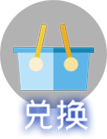
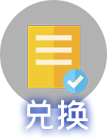
修复了，课程结束界面css 增加了兑换页面

diff --git a/cheerz/css/style.css b/cheerz/css/style.css
@@ -71,7 +71,7 @@ input:-ms-input-placeholder {color: #666;}
 .index-bg{ position:fixed; left:0; top:0; width:100%; height:100%;}
 .index-bg img{ width:100%; height:auto;}
 
-.wt-bg{ position:fixed;top: 0;left: 0; width: 100%;height:auto; background-size: 100% auto;background-color: #2e0f72;}
+.wt-bg{ position:fixed;top: 50%;left: 0; width: 100%;height:auto; background-size: 100% auto;background-color: #2e0f72; transform:translateY(-50%) ;}
 .wt-bg img{ width:100%; height:auto;}
 
 .wt-return{ position:fixed; left:.3rem; top:.25rem; width:1.1rem; height:1.1rem; z-index:9999; background:url(../images/fh.png) no-repeat; background-size:100% 100%;}
@@ -116,12 +116,12 @@ input:-ms-input-placeholder {color: #666;}
 .index-title .jinbi img{ width:.74rem; height:.77rem; z-index:99; position:absolute; top:50%; transform: translateY(-50%); left:0; }
 .index-title .jinbi span{background:url(../images/tm.png) repeat; padding-left:.7rem; padding-right:.5rem; height:.55rem;border-radius:.25rem; display:block; line-height:.55rem; color:#ffffff; font-size:.28rem; text-align:center;position:absolute; top:50%; transform: translateY(-50%); z-index:9;}
 .index-title .icon{ width:1.07rem; height:1.39rem; display:block; float:right; margin-left:.6rem;}
-.index-title .icon01{ background:url(../images/gm.png) no-repeat; background-size:100% 100%;}
-.index-title .icon02{ background:url(../images/dh.png) no-repeat; background-size:100% 100%;}
+.index-title .icon01{ background:url(../images/dh.png) no-repeat; background-size:100% 100%;}
+.index-title .icon02{ background:url(../images/sc.png) no-repeat; background-size:100% 100%;}
 .index-title .icon03{ background:url(../images/sz.png) no-repeat; background-size:100% 100%;}
 
-.index-title .icon01:hover{ background:url(../images/gm-hover.png) no-repeat; background-size:100% 100%;}
-.index-title .icon02:hover{ background:url(../images/dh-hover.png) no-repeat; background-size:100% 100%;}
+.index-title .icon01:hover{ background:url(../images/dh-hover.png) no-repeat; background-size:100% 100%;}
+.index-title .icon02:hover{ background:url(../images/sc-hover.png) no-repeat; background-size:100% 100%;}
 .index-title .icon03:hover{ background:url(../images/sz-hover.png) no-repeat; background-size:100% 100%;}
 .index-boxa{ padding-top:4.5rem 0rem 4.5rem 9rem;}
 .quanbu-kc{ background:url(../images/qbkc.png) no-repeat; width:2.45rem; height:3.71rem; background-size:100% 100%; float:left; margin-left:.9rem; margin-top:.7rem;}
@@ -208,6 +208,15 @@ input:-ms-input-placeholder {color: #666;}
 .chebei-wan li{ width:33.33%; float:left; text-align:center;}
 .chebei-wan li .yes{ background:url(../images/dui.png) no-repeat; width:.95rem; height:.80rem; background-size:100% 100%; margin:0 auto; display:block; margin-top:.25rem;}
 .chebei-wan li .no{ background:url(../images/cuo.png) no-repeat; width:.80rem; height:.80rem; background-size:100% 100%; margin:0 auto; display:block; margin-top:.25rem;}
+
+.dh-box { background:url(../images/dh-kuang.png) no-repeat; width:17.17rem; height:8.15rem; margin:0 auto; background-size:100% 100%; position:absolute;z-index:999; top:50%;transform: translateY(-50%); left:50%; margin-left:-8.15rem; padding:1.5rem 1.15rem 2rem 5.2rem;}
+
+.dh-list { padding-top:.2rem;}
+.dh-list .item{ position:relative; width:7.1rem; margin:0 auto; margin-top:.4rem;}
+.dh-list .item .text{ width:100%; height:.75rem; line-height:.75rem; padding:0px .32rem; font-size:.28rem;text-align: center;text-transform:uppercase;}
+.dh-list .submit{ width:3.55rem; height:.69rem; display:block; margin:0 auto; background:url(../images/login-btn.png) no-repeat; border:0; font-size:.34rem;padding-bottom: 0.04rem;  margin-top:.6rem; background-size:100% 100%; line-height:1.5;}
+.dh-list .submit:hover{ background:url(../images/login-btn-hover.png) no-repeat; height:.69rem; background-size:100% 100%;}
+
 
 .goum-box{ background:url(../images/gou-kuang.png) no-repeat; width:17.18rem; height:8.94rem; margin:0 auto; background-size:100% 100%; position:absolute;z-index:999; top:50%;transform: translateY(-50%); left:50%; margin-left:-8.95rem; padding:1.5rem 1.15rem 2rem 5.2rem;}
 .goum-box .img-box{ width:100%; height:1.6rem;}
@@ -406,10 +415,7 @@ input:-ms-input-placeholder {color: #666;}
 .zhibo-list li .img-box{ background:#d5d5d5;width:3.4rem; height:2.55rem; position:absolute;left: 0.255rem; top: 0.57rem; overflow:hidden;}
 .zhibo-list li .img-box img{ width:100%;}
 
-.end-box{ position:fixed; z-index:3; left:50%; width:6.2rem; top:50%;transform: translateY(-50%); margin-left:-3.1rem;}
-.end-box .praise{ width:4.92rem; height:3.77rem; margin:0 auto;}
-.end-box .praise img{ width:4.92rem; height:3.77rem;}
-
+.end-box{ position:fixed; z-index:3; width:6.2rem;left:50%; top:55%;transform: translate(-50%,-50%);}
 .end-box .praise{ width:4.92rem; height:3.40rem; margin:0 auto;}
 .end-box .praise img{ width:4.92rem; height:3.40rem;}
 .end-box .txt-box{ background:url(../images/score.png) no-repeat; width:3.65rem; height:1.47rem; margin:0 auto; position:relative; background-size:100% 100%; margin-top:.4rem; padding-top:.3rem;}
@@ -425,7 +431,7 @@ input:-ms-input-placeholder {color: #666;}
 .end-btn a.xy{ background:url(../images/h-btn.png) no-repeat; width:2.36rem; height:.7rem; background-size:100% 100%;font-size:0.38rem;font-family:zihun59hao;color:rgba(255,255,255,1); text-align:center; line-height:.7rem; float:right;}
 .end-btn a.xy:hover{ background:url(../images/h-btn-hover.png) no-repeat; background-size:100% 100%; color:#fff;}
 .kc-end-img{ text-align:center;}
-.kc-end-img .end-tit{ width:4.96rem; height:1.33rem; margin:0 auto;}
+.kc-end-img .end-tit{ width:5.58rem; height:1.5rem; margin:0 auto;}
 .kc-end-img .end-tit img{ width:100%;}
 .kc-end-img .end-nema { text-align:center;  line-height:.4rem; display:inline-block;}
 .kc-end-img .end-nema span{color:#ffffff; font-size:.33rem; font-weight:bold; padding:0px .3rem;}

diff --git a/cheerz/css/style-ipad.css b/cheerz/css/style-ipad.css
@@ -62,8 +62,9 @@ input:-ms-input-placeholder {color: #666;}
 .wt-box{position:relative; width:100%;height:100%;} 
 .hd-box{position:relative; width:100%;height:100%;} 
 
-.wt-bg{ position:fixed; left:0; top:0; width:100%; height:100%; background-size: 100% auto;}
+.wt-bg{ position:fixed;top: 50%;left: 0; width: 100%;height:auto; background-size: 100% auto;background-color: #2e0f72; transform:translateY(-50%) ;}
 .wt-bg img{ width:100%; height:auto;}
+
 .index-bg{ position:fixed; left:0; top:0; width:100%; height:100%;}
 .index-bg img{ width:100%; height:auto;}
 .wt-return{ position:fixed; left:.3rem; top:.4rem; width:0.85rem; height:0.85rem; z-index:99999; background:url(../images/fh.png) no-repeat; background-size:100% 100%;}
@@ -103,12 +104,12 @@ input:-ms-input-placeholder {color: #666;}
 .index-title .jinbi img{ width:.74rem; height:.77rem; z-index:99; position:absolute; top:50%; transform: translateY(-50%); left:0; }
 .index-title .jinbi span{background:url(../images/tm.png) repeat; padding-left:.7rem; padding-right:.5rem; height:.55rem;border-radius:.25rem; display:block; line-height:.55rem; color:#ffffff; font-size:.28rem; text-align:center;position:absolute; top:50%; transform: translateY(-50%); z-index:9;}
 .index-title .icon{ width:1.07rem; height:1.39rem; display:block; float:right; margin-left:.6rem;}
-.index-title .icon01{ background:url(../images/gm.png) no-repeat; background-size:100% 100%;}
-.index-title .icon02{ background:url(../images/dh.png) no-repeat; background-size:100% 100%;}
+.index-title .icon01{ background:url(../images/dh.png) no-repeat; background-size:100% 100%;}
+.index-title .icon02{ background:url(../images/sc.png) no-repeat; background-size:100% 100%;}
 .index-title .icon03{ background:url(../images/sz.png) no-repeat; background-size:100% 100%;}
 
-.index-title .icon01:hover{ background:url(../images/gm-hover.png) no-repeat; background-size:100% 100%;}
-.index-title .icon02:hover{ background:url(../images/dh-hover.png) no-repeat; background-size:100% 100%;}
+.index-title .icon01:hover{ background:url(../images/dh-hover.png) no-repeat; background-size:100% 100%;}
+.index-title .icon02:hover{ background:url(../images/sc-hover.png) no-repeat; background-size:100% 100%;}
 .index-title .icon03:hover{ background:url(../images/sz-hover.png) no-repeat; background-size:100% 100%;}
 .index-boxa{ padding-top:4.5rem 0rem 4.5rem 9rem;}
 .quanbu-kc{ background:url(../images/qbkc.png) no-repeat; width:2.45rem; height:3.71rem; background-size:100% 100%; float:left; position: absolute; left:.57rem; top:.7rem;}
@@ -195,6 +196,15 @@ input:-ms-input-placeholder {color: #666;}
 .chebei-wan li{ width:33.33%; float:left; text-align:center;}
 .chebei-wan li .yes{ background:url(../images/dui.png) no-repeat; width:.95rem; height:.80rem; background-size:100% 100%; margin:0 auto; display:block; margin-top:.25rem;}
 .chebei-wan li .no{ background:url(../images/cuo.png) no-repeat; width:.80rem; height:.80rem; background-size:100% 100%; margin:0 auto; display:block; margin-top:.25rem;}
+
+.dh-box { background:url(../images/dh-kuang.png) no-repeat; width:17.17rem; height:8.15rem; margin:0 auto; background-size:100% 100%; position:absolute;z-index:999; top:50%;transform: translateY(-50%); left:50%; margin-left:-8.15rem; padding:1.5rem 1.15rem 2rem 5.2rem;}
+
+.dh-list { padding-top:.2rem;}
+.dh-list .item{ position:relative; width:7.1rem; margin:0 auto; margin-top:.4rem;}
+.dh-list .item .text{ width:100%; height:.75rem; line-height:.75rem; padding:0px .32rem; font-size:.28rem;text-align: center;text-transform:uppercase;}
+.dh-list .submit{ width:3.55rem; height:.69rem; display:block; margin:0 auto; background:url(../images/login-btn.png) no-repeat; border:0; font-size:.34rem;padding-bottom: 0.04rem;  margin-top:.6rem; background-size:100% 100%; line-height:1.5;}
+.dh-list .submit:hover{ background:url(../images/login-btn-hover.png) no-repeat; height:.69rem; background-size:100% 100%;}
+
 
 .goum-box{ background:url(../images/gou-kuang.png) no-repeat; width:17.18rem; height:8.94rem; margin:0 auto; background-size:100% 100%; position:absolute;z-index:999; top:50%;transform: translateY(-50%); left:50%; margin-left:-8.95rem; padding:1.5rem 1.15rem 2rem 5.2rem;}
 .goum-box .img-box{ width:100%; height:1.6rem;}
@@ -401,10 +411,7 @@ input:-ms-input-placeholder {color: #666;}
 .zhibo-list li .img-box{ background:#d5d5d5;width:2.95rem; height:2.2rem; position:absolute;left: 0.255rem; top: 0.57rem; overflow:hidden;}
 .zhibo-list li .img-box img{ width:100%;}
 
-.end-box{ position:fixed; z-index:3; left:50%; width:6.2rem; top:50%;transform: translateY(-50%); margin-left:-3.1rem;}
-.end-box .praise{ width:4.92rem; height:3.77rem; margin:0 auto;}
-.end-box .praise img{ width:4.92rem; height:3.77rem;}
-
+.end-box{ position:fixed; z-index:3; width:6.2rem;left:50%; top:55%;transform: translate(-50%,-50%);}
 .end-box .praise{ width:4.92rem; height:3.40rem; margin:0 auto;}
 .end-box .praise img{ width:4.92rem; height:3.40rem;}
 .end-box .txt-box{ background:url(../images/score.png) no-repeat; width:3.65rem; height:1.47rem; margin:0 auto; position:relative; background-size:100% 100%; margin-top:.4rem; padding-top:.3rem;}

diff --git a/cheerz/duihuan.html b/cheerz/duihuan.html
@@ -1,0 +1,73 @@
+<!DOCTYPE html>
+<html>
+	<head>
+		<!-- 兑换课程 -->
+		<meta charset="utf-8">
+		<meta name="viewport" content="width=device-width,initial-scale=1,minimum-scale=1,maximum-scale=1,user-scalable=no" />
+		<title>哈彼英语</title>
+		<link href="css/mui.min.css" rel="stylesheet" />
+		<link href="css/style.css" rel="stylesheet" />
+	</head>
+	<body>
+		<div class="wt-bg"><img src="images/index-bg.png"></div>
+		<a href="javascript:jump('index','index.html')" class="wt-return"></a>
+
+		<div class="iphone_center">
+			<div class="wt-box">
+				<div class="dh-box">
+					<form>
+						<div class="dh-list">
+							<div class="item">
+								<input name="" type="text" class="text" id="duihuanma" placeholder="请输入课程兑换码">
+							</div>
+							<button type="button" class="submit" id="duihuan">兑&nbsp;&nbsp;换</button>
+						</div>
+					</form>
+				</div>
+			</div>
+		</div>
+
+
+
+
+		<script src="js/mui.min.js"></script>
+		<script src="js/jquery-1.8.3.min.js"></script>
+		<script src="js/rem.js"></script>
+		<script src="js/ui-choose.js"></script>
+		<script src="js/common.js"></script>
+		<script>
+			$('#duihuan').on('click', function() {
+				var duihuanma = $("#duihuanma").val();
+				if (duihuanma.length == 0) {
+					mui.alert('请输入兑换码');
+					return;
+				}
+				// mui.ajax({
+				// 	url: '',
+				// 	data: {
+				// 		duihuanma: duihuanma
+				// 	},
+				// 	async: true,
+				// 	dataType: 'json',
+				// 	type: 'post',
+				// 	timeout: 10000,
+				// 	success: function(data) {
+				// 		// 请求成功
+				// 		if (data.rst == 0) {
+				// 			mui.alert(data.msg);
+				// 			return;
+				// 		}
+				// 		if (data.rst == 1) {
+				// 			// 兑换成功
+				// 		}
+				// 	},
+				// 	error: function(xhr, type, errorThrown) {
+				// 		// 请求失败  
+				// 		mui.alert("网络错误，请稍后再试");
+				// 	}
+				// });
+			});
+		</script>
+
+	</body>
+</html>

diff --git a/cheerz/kc-end.html b/cheerz/kc-end.html
@@ -7,13 +7,13 @@
 		<link href="css/mui.min.css" rel="stylesheet" />
 		<link href="css/style.css" rel="stylesheet" />
 	</head>
-	<body style="background:#333333;">
-		<div class="wt-bg"><img src="images/kc-end.png"></div>
+	<body style="background:#333;">
+		<div class="wt-bg" style="background:#333;"><img src="images/kc-end.png"></div>
 		<!-----
 		<a href=""class="yx-return"></a>
 		<!----->
 
-		<div class="iphone_center">
+		<div class="iphone_center" style="background:#333;">
 			<div class="wt-box">
 				<div class="end-box">
 					<div class="kc-end-img">
@@ -60,10 +60,12 @@
 		var token;
 
 		function leavepage() {
-			comefrom = document.referrer;
-			if (comefrom.indexOf("zhibo-kt.html") != -1) returnlink = "index.html";
-			else returnlink = "kcxq.html";
-			jump('back', returnlink);
+			iszhibo = localStorage.getItem("isnowzhibo");
+			if (iszhibo == 1) {
+				jump('index', 'index.html');
+			} else {
+				jump('xq', 'kcxq.html');
+			}
 		}
 
 		function loadpage() {

diff --git a/cheerz/index.html b/cheerz/index.html
@@ -47,7 +47,7 @@
 						<div class="mui-col-sm-6 mui-col-xs-6 mui-clearfix">
 							<a href="javascript:jump('shezhi','shezhi.html')" class="icon icon03"></a>
 							<a href="javascript:mui.alert('暂未开放，敬请期待')" class="icon icon02"></a>
-							<a href="javascript:jump('goumai','goumai-kc.html')" class="icon icon01"></a>
+							<a href="javascript:jump('duihuan','duihuan.html')" class="icon icon01"></a>
 						</div>
 					</div>
 				</div>

diff --git a/cheerz/ml.html b/cheerz/ml.html
@@ -20,6 +20,7 @@
 <a href="shebei-jc03.html">设备检测-声音</a>
 <a href="shebei-jc04.html">设备检测-完成</a>
 <a href="goumai-kc.html">购买课程</a>
+<a href="duihuan.html">兑换课程</a>
 <a href="qb-kc.html">历史课程列表</a>
 <a href="zhoumo-xq.html">周末详情</a>
 <a href="zhoumo-yx.html">周末游戏-好饿的哈利</a>
